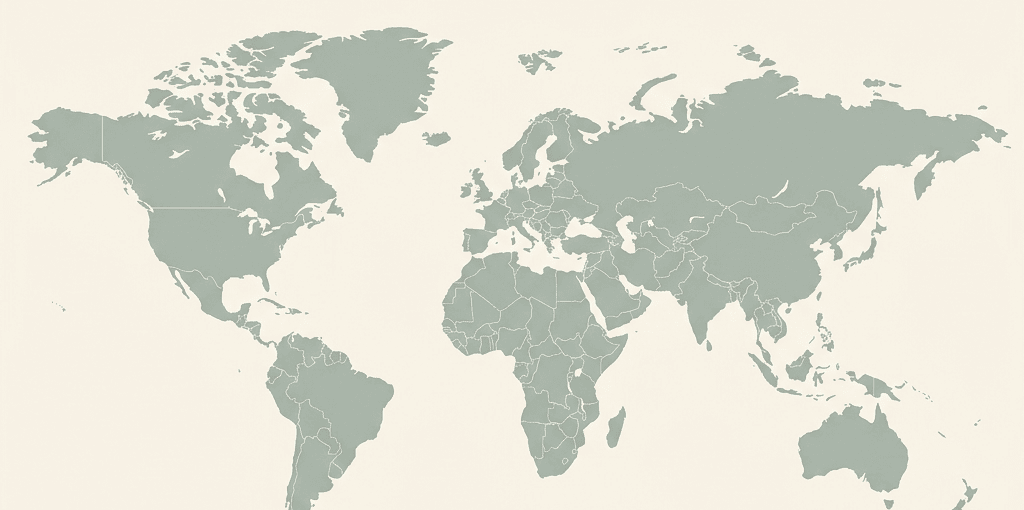
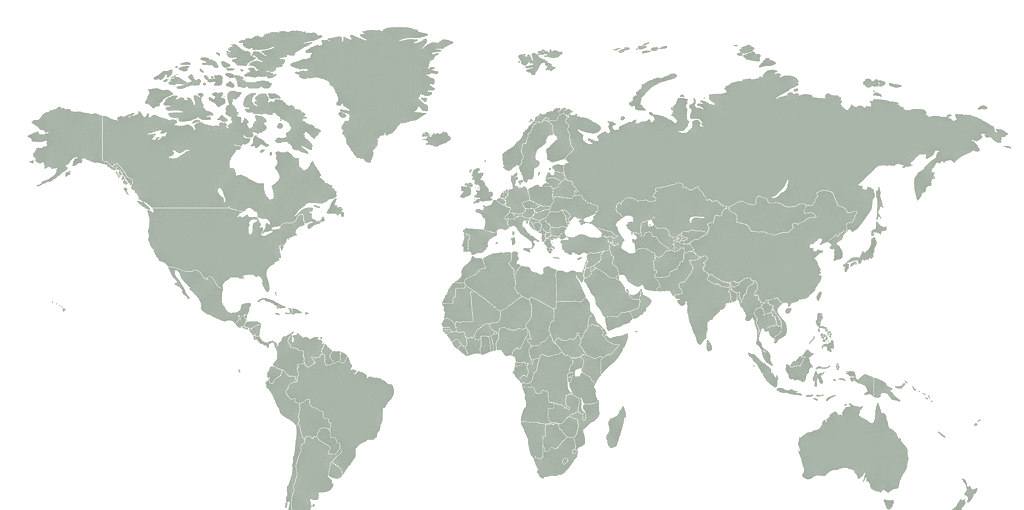
Remove beige background layer from world map section

diff --git a/src/styles/main.css b/src/styles/main.css
@@ -4224,9 +4224,6 @@ strong, b {
   width: 100%;
   height: 100%;
   object-fit: fill;
-  opacity: 0.96;
-  mix-blend-mode: multiply;
-  filter: drop-shadow(0 18px 40px rgba(15, 56, 30, 0.08));
 }
 
 .world-map-overlay-svg {
